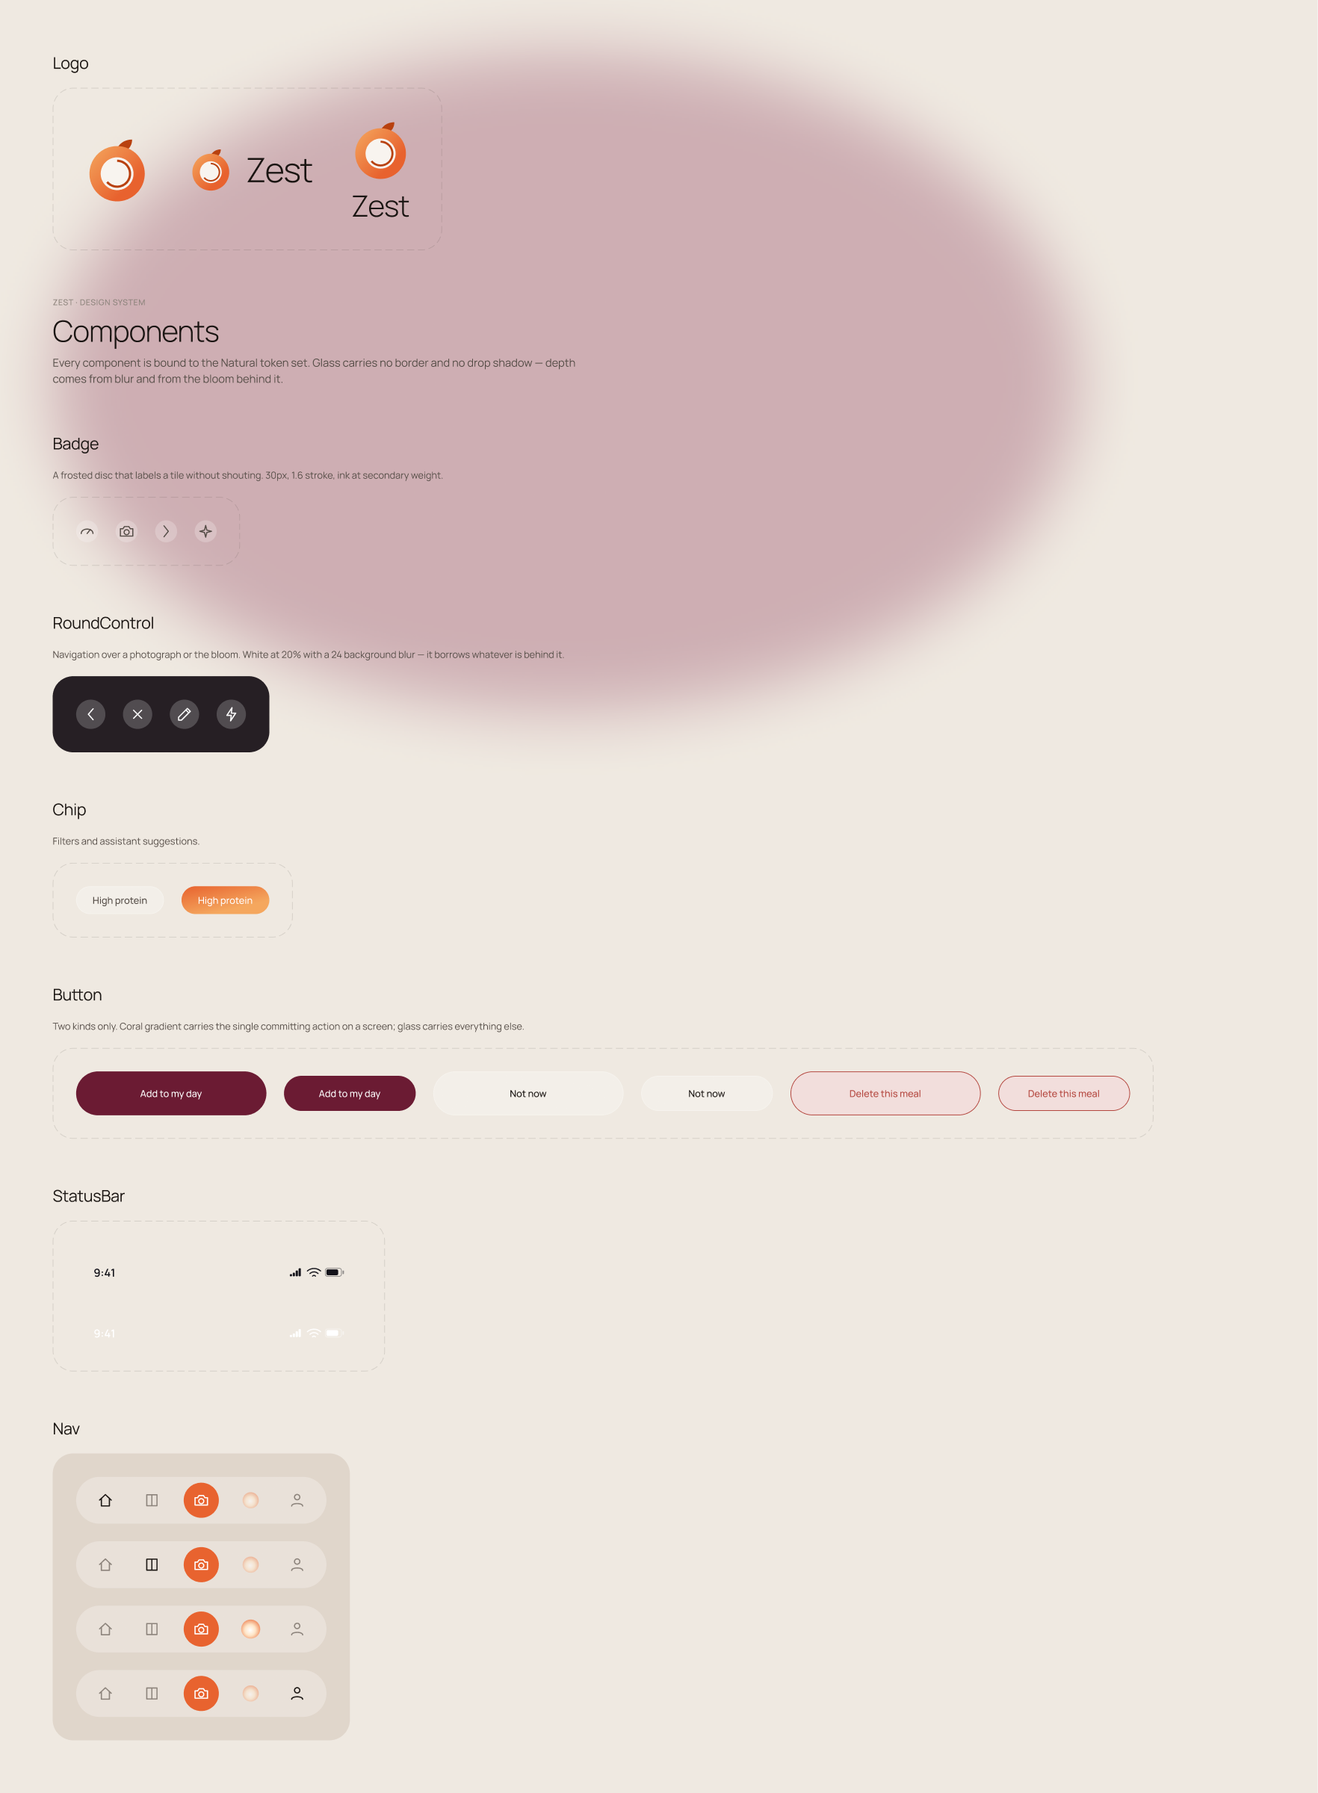
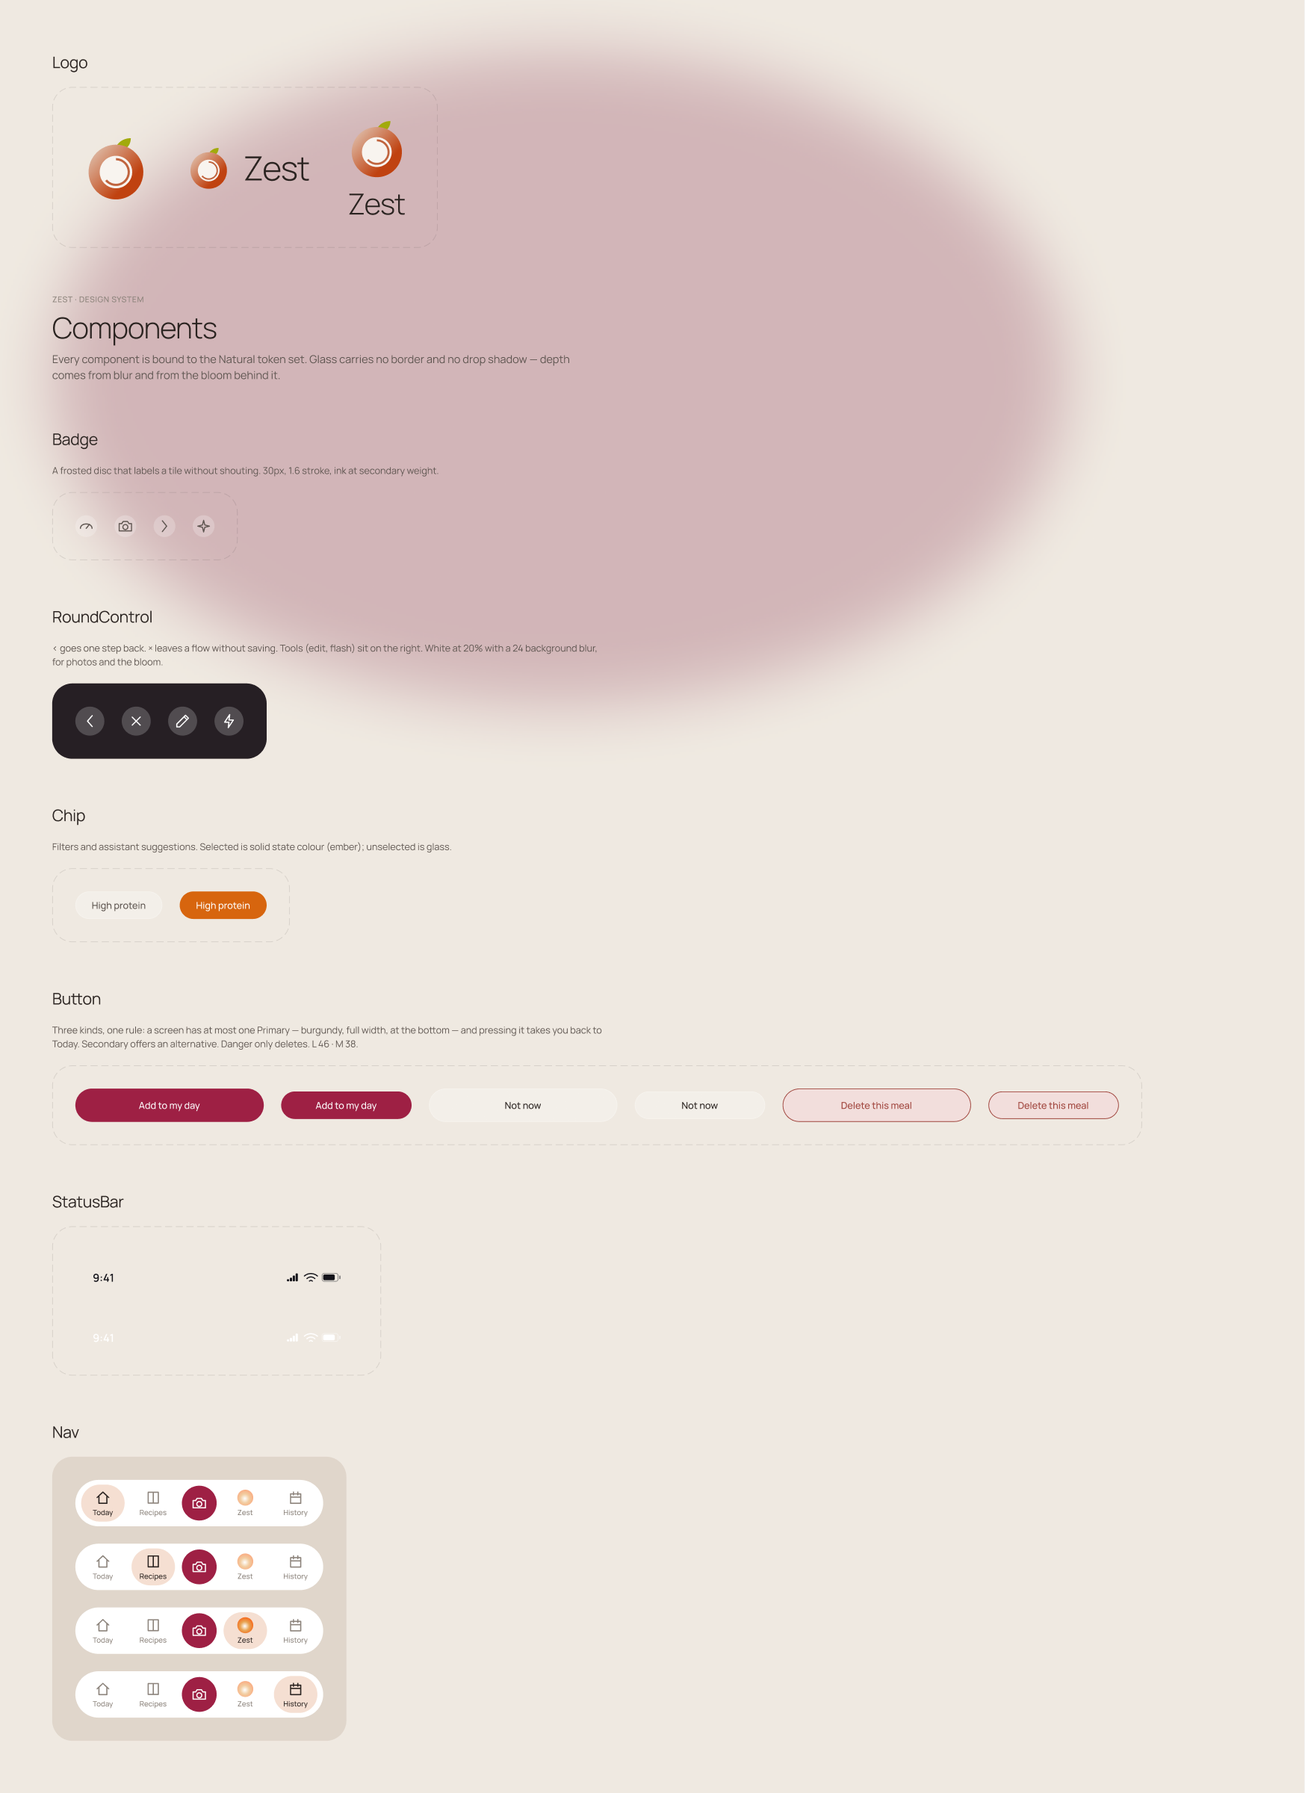
design: fold Sofia's edits into the system, one logic between screens
Sofia's hand edits in Figma become the design system: the burgundy #9E2044 action,
the #D7650E state colour, the new macro hues, 46px buttons, the white nav and the
recoloured logo now live in variables and main components, and every hardcoded colour
on the screens is bound again. Two tokens are added: surface/raised and glass/peach.

The screens now follow three kinds — place, detail, flow — each with one behaviour:
four labelled places plus the camera in the nav, ‹ for one step back, × to leave a flow,
one burgundy button that commits and returns to Today. Capture is redesigned, Ask Zest
and History become places, and all ~40 prototype links use one transition system.

Add, Saved and Profile were removed in Figma on purpose; their exports go too, and the
remaining ten are renumbered in flow order.

Claude-Session: https://claude.ai/code/session_01FDPnJdAVQFe1ai4QzDTio4

diff --git a/README.md b/README.md
@@ -19,7 +19,7 @@ Both user stories from the brief are closed end to end:
 | Story | Where it happens |
 |---|---|
 | Calculate the calories in a **dish** | Capture → Analysing → Result |
-| Calculate the calories in a **specific product** | Add → Search a product → portion stepper |
+| Calculate the calories in a **specific product** | Capture → Barcode or Type it → Add a product → portion stepper |
 | Find a **recipe suitable for me** | Recipes (ranked by what is left today) → Recipe detail → *Why this fits you* |
 
 ---
@@ -47,15 +47,16 @@ from what the person actually ate.** The atmosphere is data, not decoration.
 | Role | Token | Value |
 |---|---|---|
 | Ground | `ground/porcelain` | `#EFE9E1` |
-| Bloom | `bloom/plum` → `bloom/mulberry` → `bloom/ember` → `bloom/amber` | `#3A1730` `#7E2347` `#E8632F` `#F5A85F` |
-| Sampled from food | `bloom/butter` | `#F0DDA4` |
-| **Action** | `action/primary` | `#6B1B33` burgundy |
-| State (selected, active, progress) | `accent/ember` | `#E8632F` |
-| Protein · Carbs · Fat | `macro/*` | `#5C63C4` `#D9A441` `#C9524A` |
+| Bloom | `bloom/plum` → `bloom/mulberry` → `bloom/ember` → `bloom/amber` | `#4A2238` `#8C3A56` `#E27A52` `#F2B585` |
+| Sampled from food | `bloom/butter` | `#FFCB2F` |
+| **Action** — committing button, nav camera | `action/primary` | `#9E2044` burgundy |
+| State (selected, progress, shutter) | `accent/ember` | `#D7650E` |
+| Protein · Carbs · Fat | `macro/*` | `#4550D7` `#FBC357` `#CE4A34` |
+| Opaque surface (nav, inputs) · suggestion tiles | `surface/raised` · `glass/peach` | `#FFFFFF` · `#F4BFA5` 66 % |
 
 **The rule that keeps controls readable:** a control is never the colour of the
-atmosphere. The committing action is burgundy on every screen with no exceptions; the
-brand's ember is reserved for state and for the capture button alone; red appears only on
+atmosphere. The committing action is burgundy on every screen with no exceptions and the
+bloom never borrows it; ember is reserved for state and the shutter; red appears only on
 destructive actions. Each macro hue also has a `-ink` twin that is safe to set text in,
 because the graphic values are too light to carry type.
 
@@ -77,39 +78,46 @@ status bar at 0, navigation at 59, bottom bar 24 from the edge.
 |---|---|---|
 | 1 | Branding / stylescape | Figma page `01 · Branding` — logo exploration, chosen mark, 4000 × 2000 stylescape |
 | 2 | Design system | Figma pages `02 · Foundations` and `03 · Components` |
-| 3 | Key screens & flows | Figma page `04 · Screens & Prototype` — 13 screens, ~70 prototype links, start point on Welcome |
+| 3 | Key screens & flows | Figma page `04 · Screens & Prototype` — 10 screens, ~40 prototype links, start point on Welcome |
 
 See [`links.md`](links.md) for the Figma link and the video walkthrough.
 
 ### Screens
 
+Every screen is one of three kinds, and each kind always behaves the same way:
+
+| Kind | Screens | Top-left | Bottom | Arrives by |
+|---|---|---|---|---|
+| **Place** | Today, Recipes, Zest, History | — | the nav | dissolve, 300 ms |
+| **Detail** | Recipe detail | `‹` one step back | one burgundy button | slides in from the right |
+| **Flow** | Capture → Analysing → Result, Capture → Add a product | `×` leaves without saving | one burgundy button | rises from the bottom |
+
 ```
-Welcome ──▶ Capture
-   └──────▶ Today
+Welcome ──▶ Capture                     (Scan my first meal)
+   └──────▶ Today                       (I already have an account)
 
-Today ──┬── capture ──▶ Add ──┬── Photograph ──▶ Capture ──▶ Analysing ──▶ Result ──▶ Today
-        │                     ├── Barcode ─────▶ Capture
-        │                     ├── Search ──────▶ Add a product ──▶ Today
-        │                     └── Ask Zest ────▶ Ask Zest
-        ├── week strip ──────▶ History  (month calendar, what was eaten each day)
-        ├── Last meal ───────▶ Result
-        ├── Zest tile ───────▶ Ask Zest
-        └── Dinners that fit ▶ Recipes ──▶ Recipe detail ──▶ Today
+Nav, on every place:  Today · Recipes · [ camera ] · Zest · History
+                                         └──▶ Capture
 
-Profile ──┬── Saved recipes ──▶ Saved ──▶ Recipe detail
-          ├── History
-          └── Settings
+Capture ──┬── shutter / library ──▶ Analysing ──(auto)──▶ Result ──▶ Today
+          ├── Barcode ────────────▶ Add a product ───────────────────▶ Today
+          └── Type it ────────────▶ Add a product
+
+Today ──┬── week strip ───────▶ History
+        ├── Zest tile ────────▶ Zest
+        └── Dinners that fit ─▶ Recipes ──▶ Recipe detail ──▶ Today
 ```
 
-Bottom navigation is the same everywhere: **Today · Recipes · Capture · Zest · Profile**.
-Nothing on a screen duplicates a control that already lives in the navigation.
+The camera in the nav always opens Capture. Every burgundy button commits something and
+returns to Today, where it lands. Nothing on a screen duplicates a control that already
+lives in the navigation.
 
 ### Design system
 
-- ~50 Figma variables (colour, spacing, radius) — no hardcoded values in any screen
+- ~53 Figma variables (colour, spacing, radius) — no hardcoded values in any screen
 - 11 text styles
-- Components: `Logo` (3 lockups), `StatusBar` (2 tones), `Nav` (4 active states),
-  `Button` (3 kinds × 2 sizes), `Chip`, `Badge`, `RoundControl`
+- Components: `Logo` (3 lockups), `StatusBar` (2 tones), `Nav` (4 active states, labelled),
+  `Button` (3 kinds × L 46 / M 38), `Chip`, `Badge`, `RoundControl` (back, close, edit, flash)
 
 ---
 

diff --git a/03-screens/README.md b/03-screens/README.md
@@ -1,42 +1,52 @@
 # Key screens
 
-Exported from Figma at 390 × 844 (iPhone 14/15). All thirteen are connected in the
-prototype; the start point is Welcome.
+Exported from Figma at 390 × 844 (iPhone 14/15). All ten are connected in the prototype;
+the start point is Welcome.
 
-| File | Screen | What it is for |
-|---|---|---|
-| `01-welcome.png` | Welcome | The promise, in one sentence, plus the mark |
-| `02-add.png` | Add | The fork: photo, barcode, manual search, or ask Zest |
-| `03-today.png` | Today | The day's budget, the week strip, the last meal, Zest's read |
-| `04-capture.png` | Capture | Viewfinder — the plate held inside the light |
-| `05-analysing.png` | Analysing | Items surface one by one, so the AI's work is legible |
-| `06-result.png` | Result | Total, macros, Zest's observation, every portion editable |
-| `07-ask-zest.png` | Ask Zest | The assistant does the arithmetic, not the person |
-| `08-add-a-product.png` | Add a product | Search or barcode, with a portion stepper |
-| `09-recipes.png` | Recipes | Ranked by what is still left today |
-| `10-recipe-detail.png` | Recipe detail | Carries **Why this fits you** — the second user story |
-| `11-saved.png` | Saved | Kept recipes, honest about the ones that no longer fit |
-| `12-history.png` | History | Month calendar and what was eaten on the chosen day |
-| `13-profile.png` | Profile | Goals, saved, history, settings |
+| File | Screen | Kind | What it is for |
+|---|---|---|---|
+| `01-welcome.png` | Welcome | entry | The promise, in one sentence, plus the mark |
+| `02-today.png` | Today | place | The day's budget, the week, the last meal, Zest's read |
+| `03-capture.png` | Capture | flow | Viewfinder — the plate inside the ring; Photo · Barcode · Type it |
+| `04-analysing.png` | Analysing | flow | Items surface one by one, so the AI's work is legible |
+| `05-result.png` | Result | flow | Total, macros, Zest's observation, every portion editable |
+| `06-add-a-product.png` | Add a product | flow | Search or barcode, with a portion stepper |
+| `07-ask-zest.png` | Ask Zest | place | The assistant does the arithmetic, not the person |
+| `08-recipes.png` | Recipes | place | Ranked by what is still left today |
+| `09-recipe-detail.png` | Recipe detail | detail | Carries **Why this fits you** — the second user story |
+| `10-history.png` | History | place | Month calendar and what was eaten on the chosen day |
 
-## Flow
+## How the screens connect
+
+Three kinds of screen, and each kind always behaves the same way.
+
+| Kind | Screens | Top-left | Bottom | Arrives by |
+|---|---|---|---|---|
+| **Place** | Today, Recipes, Zest, History | — | the nav | dissolve, 300 ms |
+| **Detail** | Recipe detail | `‹` one step back | one burgundy button | slides in from the right |
+| **Flow** | Capture → Analysing → Result, Capture → Add a product | `×` leaves without saving | one burgundy button | rises from the bottom |
 
 ```
-Welcome ──▶ Capture
-   └──────▶ Today
+Welcome ──▶ Capture                     (Scan my first meal)
+   └──────▶ Today                       (I already have an account)
 
-Today ──┬── capture ──▶ Add ──┬── Photograph ──▶ Capture ──▶ Analysing ──▶ Result ──▶ Today
-        │                     ├── Barcode ─────▶ Capture
-        │                     ├── Search ──────▶ Add a product ──▶ Today
-        │                     └── Ask Zest ────▶ Ask Zest
-        ├── week strip ──────▶ History
-        ├── Last meal ───────▶ Result
-        ├── Zest tile ───────▶ Ask Zest
-        └── Dinners that fit ▶ Recipes ──▶ Recipe detail ──▶ Today
+Nav, on every place:  Today · Recipes · [ camera ] · Zest · History
+                                         └──▶ Capture
 
-Profile ──┬── Saved ──▶ Recipe detail
-          ├── History
-          └── Settings
+Capture ──┬── shutter / library ──▶ Analysing ──(auto)──▶ Result ──▶ Today
+          ├── Barcode ────────────▶ Add a product ───────────────────▶ Today
+          └── Type it ────────────▶ Add a product
+
+Today ──┬── week strip ───────▶ History
+        ├── Zest tile ────────▶ Zest
+        └── Dinners that fit ─▶ Recipes ──▶ Recipe detail ──▶ Today
+
+Zest ──┬── Swap for something lighter ──▶ Recipes
+       └── Add it to my day ────────────▶ Today
 ```
 
-Bottom navigation, identical everywhere: **Today · Recipes · Capture · Zest · Profile**.
+Three rules hold everywhere:
+
+1. `‹` goes one step back. `×` closes a flow without saving.
+2. The camera in the nav always opens Capture, from every place.
+3. Every burgundy button commits something and returns to Today, where it lands.

diff --git a/docs/PROGRESS.md b/docs/PROGRESS.md
@@ -13,7 +13,7 @@ conversation.
 | `01 · Branding` | logo exploration (3 marks) + stylescape 4000 × 2000 |
 | `02 · Foundations` | colour, bloom recipe, type ramp, spacing, radius |
 | `03 · Components` | Logo, StatusBar, Nav, Button, Chip, Badge, RoundControl |
-| `04 · Screens & Prototype` | 10 screens (see below), rewiring in progress |
+| `04 · Screens & Prototype` | 10 screens, wired, start point on Welcome |
 | `05 · Flow map` | empty — still to do |
 
 ## Screens
@@ -21,8 +21,8 @@ conversation.
 Ten screens remain. **Add (sheet), Saved and Profile were deleted on purpose — do not
 bring them back.**
 
-S01 Welcome · S03 Today · S04 Capture · S05 Analysing · S06 Result · S07 Ask Zest ·
-S08 Add a product · S09 Recipes · S10 Recipe detail · S11 History
+S01 Welcome · S02 Today · S03 Capture · S04 Analysing · S05 Result · S06 Add a product ·
+S07 Ask Zest · S08 Recipes · S09 Recipe detail · S10 History
 
 ## Round 2 — softer colour, button logic, screen logic (11 Sept)
 
@@ -52,20 +52,31 @@ S08 Add a product · S09 Recipes · S10 Recipe detail · S11 History
 - **Primary button height 46** (was 60), label Manrope Medium 13
 - White search field on Add a product; name on Today is "Dmytro"
 
+### Folded into the design system (done)
+
+1. Variables take Sofia's values; new tokens `surface/raised` (nav, inputs) and
+   `glass/peach` (suggestion tiles). Every hardcoded colour on the screens is bound again.
+2. `Button` L = 46, M = 38. `Nav` is opaque white with 8 px side padding, the camera
+   uses `action/capture` (= `#9E2044`), the new orb gradient. `Logo` has the olive leaf
+   and the cream → rust fruit. Selected `Chip` is solid ember.
+3. The hand-made CTAs are `Button` instances again, each with its own label (Welcome
+   "Scan my first meal", Add a product "Add 180 g · 175 kcal", Recipe detail
+   "Cook this · logs 480 kcal", Result "Add to my day").
+4. Screen logic: Ask Zest and History are places (nav, no back); Result and Analysing use
+   `×` (`RoundControl` instances); the duplicate camera on Add a product is gone; the
+   bookmark on Recipe detail no longer navigates; Last meal and the avatar on Today no
+   longer lead to deleted or wrong screens.
+5. Every prototype link rewired with the transition system below (~40 links).
+6. Polish: Welcome bloom no longer borrows the action colour (→ mulberry), Welcome
+   wordmark white again, the Zest orb is visible on light tiles, all recipe cards share
+   one title style, Ask Zest spacing balanced.
+7. Frames renumbered S01–S10 in flow order; PNGs re-exported; Foundations labels synced
+   with the live variables (they still showed the Sunlit Glass values).
+
 ### Next
 
-1. Push Sofia's values into the design system: variables, a new peach glass token,
-   `Button` (L = 46), `Nav` (camera = action colour, new orb), `Logo`; bind every
-   hardcoded colour on the screens back to a variable.
-2. Replace the hand-made CTA frames with `Button` instances and restore the right label
-   per screen (Welcome "Scan my first meal", Add a product "Add 180 g · 175 kcal",
-   Recipe detail "Cook this · logs 480 kcal").
-3. Screen logic: Ask Zest becomes a tab (nav, no back); History becomes a tab (no back);
-   Result top-left becomes × (it closes the capture flow); remove the camera control on
-   Add a product (the barcode in the field already does it); bookmark on Recipe detail
-   toggles, it does not navigate.
-4. Rewire every prototype link with one transition system (see below).
-5. Polish pass, re-export PNGs to `03-screens/`, update the READMEs.
+- Play the prototype once in Present mode to confirm the direction of the
+  Move-in / Slide-in transitions (the API names the direction of travel).
 
 ### Navigation model
 
@@ -75,7 +86,8 @@ S08 Add a product · S09 Recipes · S10 Recipe detail · S11 History
 | Detail | Recipe detail | ‹ back | one CTA | Slide in from right, gentle spring |
 | Capture flow | Capture → Analysing → Result, Capture → Add a product | × leaves the flow | one CTA | Move in from bottom |
 
-- `×` always returns to Today without saving. `‹` always goes one step back.
+- `×` closes a flow without saving (on Capture it returns to where you were; later in the
+  flow it returns to Today). `‹` always goes one step back.
 - The camera in the nav always opens Capture, from every tab.
 - Every committing button returns to Today, where the meal lands.
 

diff --git a/02-design-system/README.md b/02-design-system/README.md
@@ -9,22 +9,40 @@ switched once mid-project and the screens followed automatically.
 
 ## Foundations
 
-- ~50 variables across `ground/*`, `bloom/*`, `glass/*`, `ink/*`, `onbloom/*`,
-  `accent/*`, `action/*`, `macro/*`, `track/*`, `space/*`, `radius/*`
+- ~53 variables across `ground/*`, `surface/*`, `bloom/*`, `glass/*`, `ink/*`,
+  `onbloom/*`, `accent/*`, `action/*`, `macro/*`, `track/*`, `space/*`, `radius/*`
 - 11 text styles, all Manrope: `Head/XL·L·M`, `Text/Title·Body·S·Label·Caption`,
   `Metric/XL·L·S`
+
+| Role | Token | Value |
+|---|---|---|
+| Committing action, nav camera | `action/primary` | `#9E2044` |
+| State — selected, progress, shutter | `accent/ember` | `#D7650E` |
+| Protein · Carbs · Fat | `macro/*` | `#4550D7` `#FBC357` `#CE4A34` |
+| Opaque surface — nav, input fields | `surface/raised` | `#FFFFFF` |
+| Suggestion tiles — recipe teaser, Zest's reply | `glass/peach` | `#F4BFA5` at 66 % |
 
 ## Components
 
 `Logo` (mark, horizontal, stacked) · `StatusBar` (dark, light) ·
-`Nav` (Today, Recipes, Zest, Profile active) · `Button` (Primary, Secondary, Danger × L, M) ·
-`Chip` · `Badge` · `RoundControl`
+`Nav` (Today, Recipes, Zest, History active) · `Button` (Primary, Secondary, Danger × L 46, M 38) ·
+`Chip` · `Badge` · `RoundControl` (back, close, edit, flash)
 
-## The two rules worth knowing
+## The rules worth knowing
 
-**Controls are never the colour of the atmosphere.** The committing action is burgundy
-`#6B1B33` on every screen with no exceptions. Ember is reserved for state and for the
-capture button. Red appears only on destructive actions.
+**One burgundy button per screen.** Primary sits at the bottom, full width, and commits
+something; pressing it returns to Today. Screens that have one hide the nav.
 
-**Every macro hue has a text-safe twin.** The graphic values are too light to carry type,
-so `macro/protein` is for bars and `macro/protein-ink` is for the number beside it.
+**Four places and one verb.** The nav holds Today · Recipes · Zest · History, each with a
+label; the active one sits on a soft peach pill. The camera in the middle is the verb and
+opens Capture from every place.
+
+**`‹` and `×` mean different things.** `‹` goes one step back. `×` leaves a flow without
+saving.
+
+**Controls are never the colour of the atmosphere.** The bloom never borrows
+`action/primary`; ember marks state and the shutter. Red appears only on destructive
+actions.
+
+**Every macro hue has a text-safe twin.** `macro/protein` is for bars and
+`macro/protein-ink` is for the number beside it.

diff --git a/links.md b/links.md
@@ -13,4 +13,4 @@ All links must open from an incognito window. Verify before submitting.
 - `01 · Branding` — logo exploration and the stylescape
 - `02 · Foundations` — colour, the bloom, type, spacing
 - `03 · Components` — the component library
-- `04 · Screens & Prototype` — 13 screens, connected
+- `04 · Screens & Prototype` — 10 screens, connected
